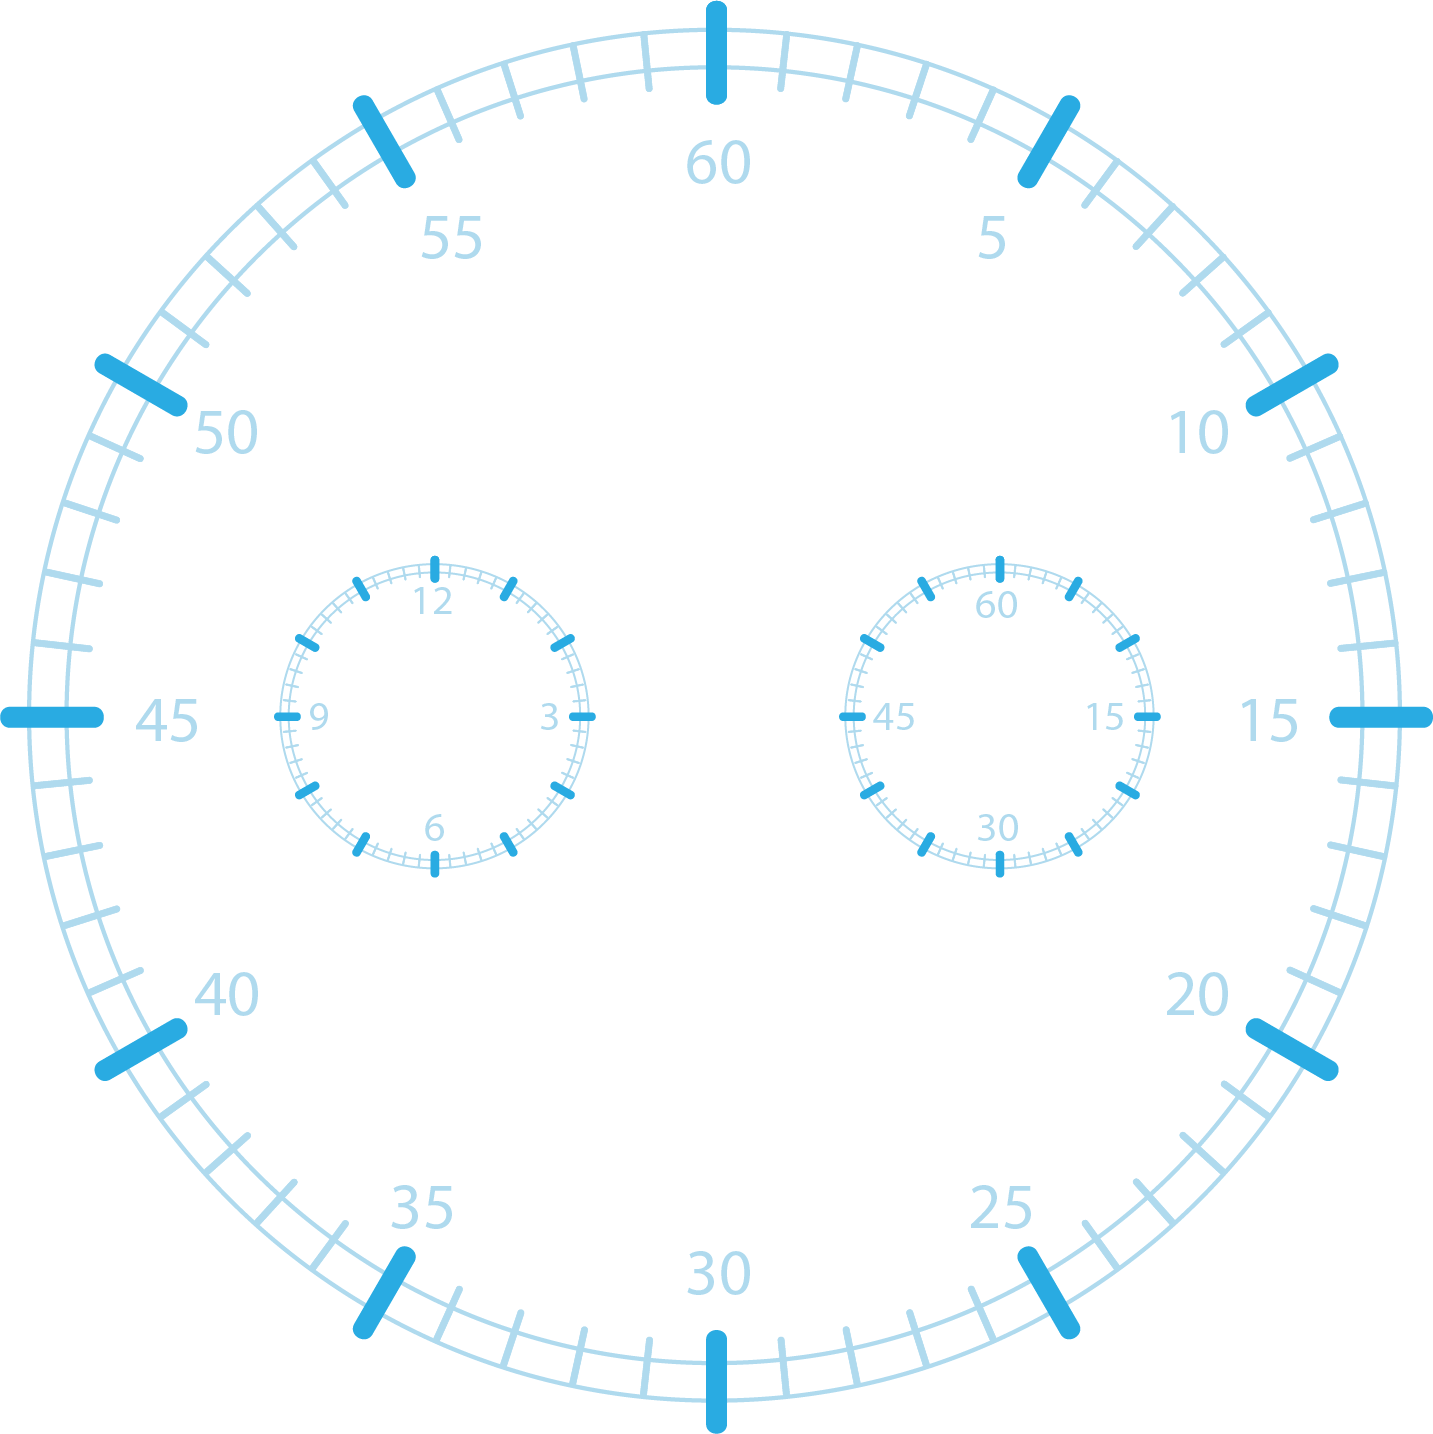
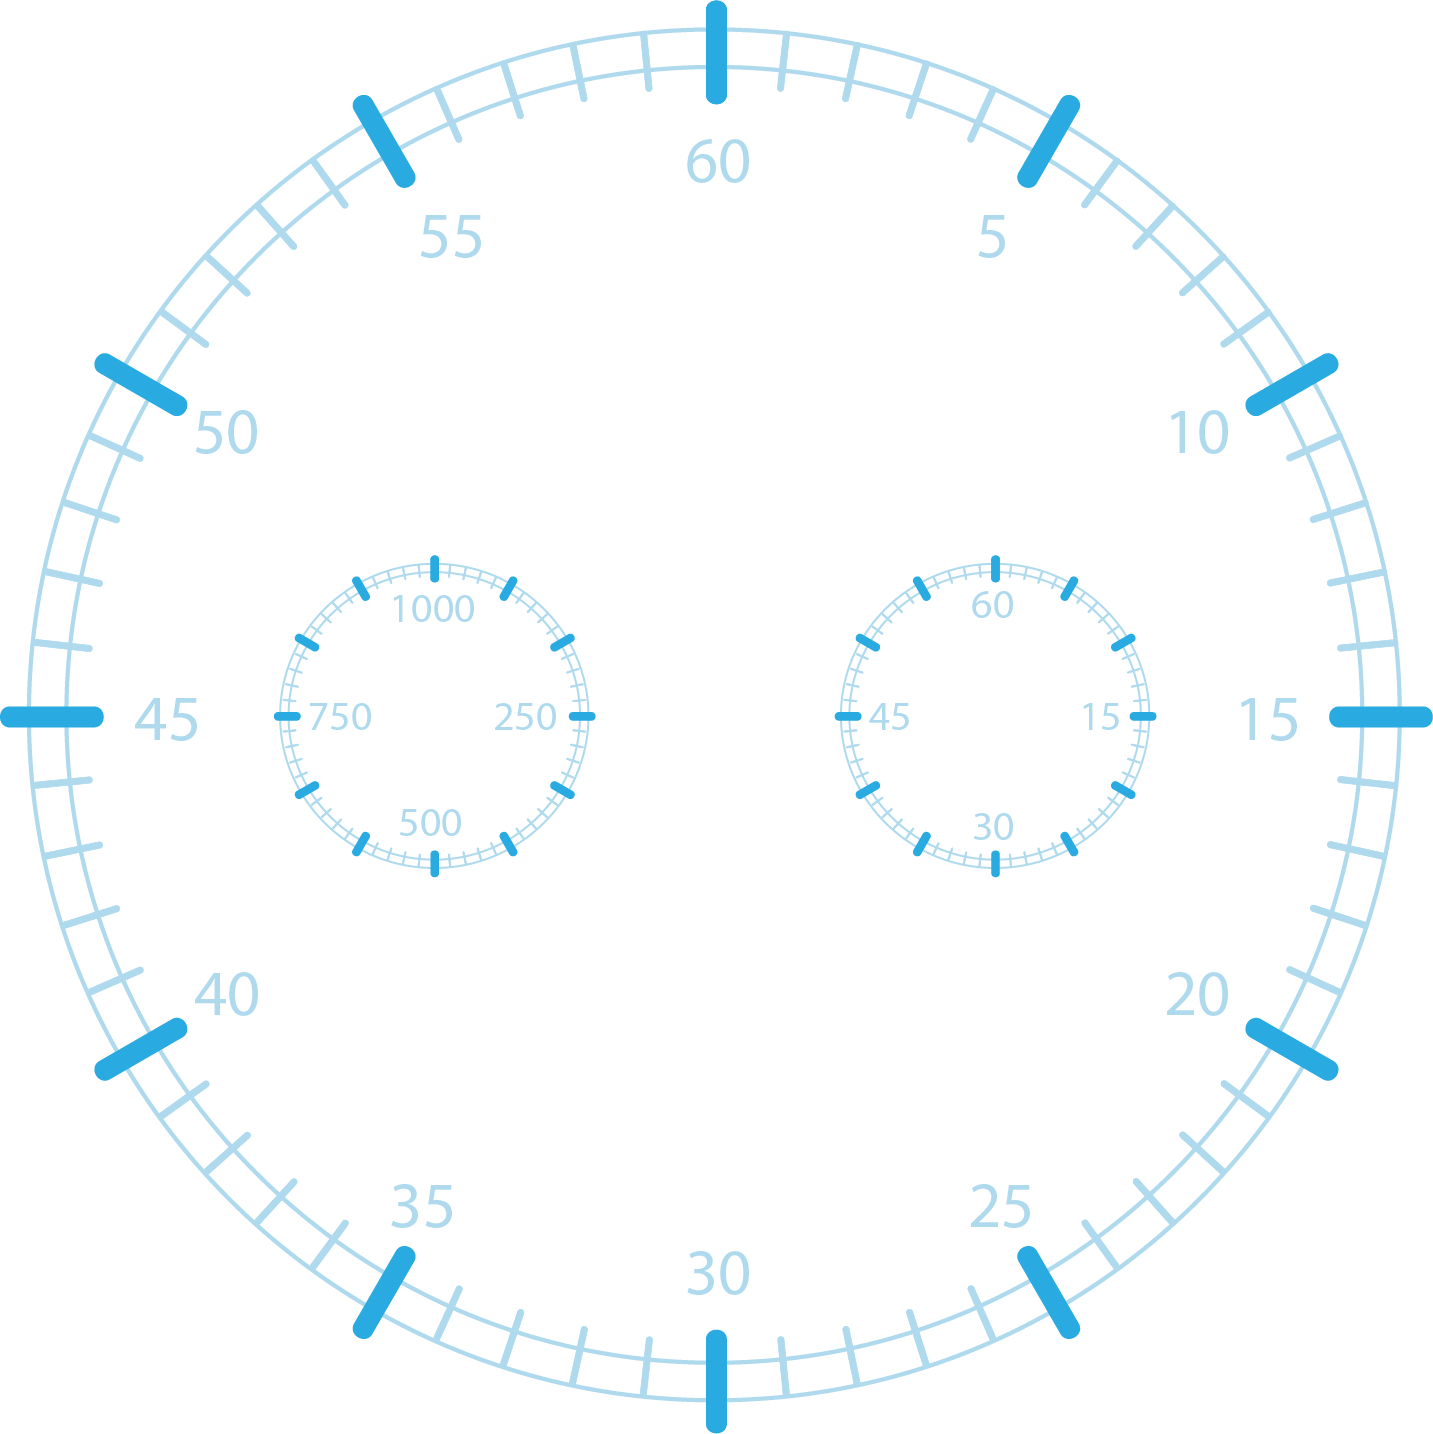
version3

diff --git a/style.css b/style.css
@@ -6,6 +6,10 @@ body{
     background-image: url(Images/2.jpg);
     background-size: cover;
 }
+.flex-container {
+  display: flex;
+  flex-direction: column;
+}
 .StopWatch{
     width: 350px;
     height: 350px;
@@ -15,72 +19,170 @@ body{
     background: #07344D;
     background-image: url(Images/StopWatch.png);
     background-size: cover;
-    /* border: 4px solid rgb(89, 89, 238); */
     border-radius: 50%;
-    /* box-shadow: 0px -15px 15px rgba(255, 255, 255, 0.05),
-                inset 0 -15px 15px rgba(255, 255, 255, 0.05); */
-                /* 0 15px 15px rgba(0, 0, 0, 0.05),
-                inset 0 15px 15px rgba(0, 0, 0, 0.05); */
 }
-/* .StopWatch:before{
-    content: '';
-    height: 15px;
-    width: 15px;
-    border-radius: 50%;
-    background: white;
-    z-index: 11;
+
+.strstp{
+    padding: 4px 12px !important;
+}
+.lap{
+    padding: 7px 6px !important;
+}
+.btn{
+    border-radius: 50% !important;
+    color: teal;
+}
+/* .fa-repeat{
+    padding: 14px 16px !important;
 } */
-.StopWatch .hours,
-.StopWatch .mins,
-.StopWatch .secs{
+.fa-play{
+    padding: 14px 17px !important;
+}
+.fa-repeat,.fa-pause{
+    padding: 14px 16px !important;
+}
+.fa,.btn{
+    margin: 38px !important;
+    font-size: 25px !important;
+}
+.buttons{
+    width: 350px;
+    height: 50px;
+    display: flex;
+    align-items: center;
+    justify-content: center;
+    margin-top: 50px;
+}
+.sem{
+    position: absolute;
+    width: 180px;
+    height: 220px;
+    display: flex;    
+    justify-content: center;
+    align-items: flex-end;
     position: absolute;
 }
-.hr,.mn{
+.semnum{
+    width: 60px;
+    height: 70px;
+}
+.semsign{
+    width: 0px;
+    height: 70px;
+    font-size: 40px;
+    color: #AFDAEE;
+    font-weight: lighter;
+    display: flex;
+    justify-content: center;
+    align-items: center;
+}
+.Dmsec,
+.Dmins,
+.Dsec{
+    position: absolute;
+    width: 180px;
+    height: 220px;
+    display: flex;
+}
+.dmsc,.dmn,.dsc{
+    text-align: center;
+    background: transparent;
+    border: none;
+    width: 60px;
+    height: 70px;
+    font-size: 40px;
+    color: #AFDAEE;
+    font-weight: lighter;
+    display: flex;
+    justify-content: center;
+    align-items: center;
+    position: absolute;
+}
+
+.Dmsec{
+    justify-content: right;
+    align-items: flex-end;
+    position: absolute;
+}
+.Dmins{
+    justify-content: left;
+    align-items: flex-end;
+    position: absolute;
+}
+.Dsec{
+    justify-content: center;
+    align-items: flex-end;
+    position: absolute;
+}
+
+.StopWatch .msec,
+.StopWatch .mins,
+.StopWatch .sec{
+    position: absolute;
+}
+.ms,.mn{
     width: 83px;
     height: 85px;
+    padding-top: 18px;
 }
-.StopWatch .hours,
+.StopWatch .msec,
 .StopWatch .mins{
     width: 220px;
     height: 220px;
     display: flex;
     align-items: center;
 }
-.StopWatch .hours{
+.StopWatch .msec{
     justify-content: left;
 }
 .StopWatch .mins{
     justify-content: right;
 }
-.StopWatch .secs, .sc{
+.StopWatch .sec, .sc{
     width: 300px;
     height: 300px;
 }
-.hr,.mn{
-    display: flex;
-    justify-content: center;
-    align-items: center;
-}
-.sc{
+.ms,.mn,.sc{
     display: flex;
     justify-content: center;
     position: absolute;
+}
+.ms::before,
+.mn::before{
+    content: '';
+    position: absolute;
+    width: 4px;
+    height: 30px;
+    background-image: url(Images/HrMnNeedle.png);
+    background-size: cover;
+    z-index: 10;
 }
 .sc::before{
     content: '';
     position: absolute;
     width: 18px;
     height: 180px;
-  /* width: 0; 
-  height: 0px; 
-  border-left: 5px solid #07344D;
-  border-right: 5px solid #07344D;
-  
-  border-bottom: 150px solid white; */
-    
-    /* background: white; */
     background-image: url(Images/SecNeedle.png);
     background-size: cover;
     z-index: 10;
-    border-radius: 6px 6px 0 0;
+
+    /* width: 0; 
+    height: 0px; 
+    border-left: 5px solid #07344D;
+    border-right: 5px solid #07344D;
+    
+    border-bottom: 150px solid white; */
+      
+      /* background: white; */
+}
+
+input::-webkit-outer-spin-button,
+input::-webkit-inner-spin-button {
+  -webkit-appearance: none;
+  margin: 0;
+}
+
+/* Firefox */
+input[type=number] {
+  -moz-appearance: textfield;
 }

diff --git a/app.js b/app.js
@@ -1,4 +1,101 @@
-// const deg = 6;
-// const sc = document.querySelector('#sc');
+const mn = document.getElementById('mn');
+const sc = document.getElementById('sc');
+const ms = document.getElementById('ms');
+const dmn = document.getElementById('dmn');
+const dsc = document.getElementById('dsc');
+const dms = document.getElementById('dmsc');
+const stspbtn = document.getElementById('strstp');
 
-// sc.style.transform = `rotateZ(${90}deg)`;
+var min = 0;
+var sec = 0;
+var msec = 0;
+var dsec = msec;
+var dmin = min;
+var dmsec = sec;
+var interval;
+
+dmn.value = dmin;
+dsc.value = dsec;
+dms.value = dmsec;
+mn.style.transform = `rotateZ(${min}deg)`;
+sc.style.transform = `rotateZ(${sec}deg)`;
+ms.style.transform = `rotateZ(${msec}deg)`;
+
+function StartStop(){
+    if((stspbtn.className).search("fa-play") != -1){
+        stspbtn.classList.remove("fa-play");
+        stspbtn.classList.add("fa-pause");
+        interval = setInterval(move,100);
+    }
+    else if((stspbtn.className).search("fa-pause") != -1){
+        stspbtn.classList.remove("fa-pause");
+        stspbtn.classList.add("fa-play");
+        clearInterval(interval);
+    }
+}
+function lap(){
+    
+}
+function reset(){
+    min = 0;
+    sec = 0;
+    msec = 0;
+    dsec = msec;
+    dmin = min;
+    dmsec = sec;
+    dmn.value = dmin;
+    dsc.value = dsec;
+    dms.value = dmsec;
+    mn.style.transform = `rotateZ(${min}deg)`;
+    sc.style.transform = `rotateZ(${sec}deg)`;
+    ms.style.transform = `rotateZ(${msec}deg)`;
+    clearInterval(interval);
+}
+function move(){
+
+    min+=0.01;
+    sec+=0.6;
+    msec+=36;
+    mn.style.transform = `rotateZ(${min}deg)`;
+    sc.style.transform = `rotateZ(${sec}deg)`;
+    ms.style.transform = `rotateZ(${msec}deg)`;
+
+    dmsec+=10;
+    if(dmsec >= 100){
+        dmsec = 00;
+        dsec++;
+        if(dsec >= 60){
+            dsec = 00;
+            dmin++;
+            if(dmin >= 60){
+                dmin = 00;
+            }
+            dmn.value = dmin;
+        }
+        dsc.value = dsec;
+    }
+    dms.value = dmsec;
+    // console.log(dsec);
+    if(min >= 360)min=0;
+    if(sec >= 360)sec=0;
+    if(msec >= 360)msec=0;
+
+
+
+    // console.log(i);
+    // if(i>=360){console.log("SecondDone");i=0;}
+    
+
+
+    // i++;
+    // if(i>=10){
+    //     console.log("SecondDone");
+    //     i=0;
+    // }
+        
+//     hr.style.transform = `rotateZ(${i}deg)`;
+//     mn.style.transform = `rotateZ(${i}deg)`;
+//     sc.style.transform = `rotateZ(${i}deg)`;
+//     i += 0.5;
+// }
+}

diff --git a/index.html b/index.html
@@ -26,21 +26,44 @@
 
 </head>
 <body>
+    <div class="flex-container">
+        <div class="StopWatch">
+            <div class="msec">
+                <div class="ms" id="ms"></div>
+            </div>
+            
+            <div class="mins">
+                <div class="mn" id="mn"></div>
+            </div>
+            
+            <div class="sec">
+                <div class="sc" id="sc"></div>
+            </div>
+            
+            <div class="Dmsec">
+                <input type="number" class="dmsc" id="dmsc" value="00" step=".01">
+            </div>
+            <div class="Dmins">
+                <input type="number" class="dmn" id="dmn" value="00" step=".01">
+            </div>
+            <div class="Dsec">
+                <input type="number" class="dsc" id="dsc" value="00" step=".01">
+            </div>
 
-    <div class="StopWatch">
-        <div class="hours">
-            <div class="hr" id="hr">hr</div>
+            <div class="sem">
+                <div class="semnum" id=""></div>
+                <div class="semsign" id="">:</div>
+                <div class="semnum" id=""></div>
+                <div class="semsign" id="">:</div>
+                <div class="semnum" id=""></div>
+            </div>
         </div>
-        
-        <div class="mins">
-            <div class="mn" id="mn"></div>
-        </div>
-        
-        <div class="secs">
-            <div class="sc" id="sc"></div>
+        <div class="buttons">
+            <button class="btn btn-basic fa fa-play strstp" id="strstp" onclick="StartStop()"></button>
+            <button class="btn btn-basic reset fa fa-repeat" id="reset" onclick="reset()"></button>
+            <button class="btn btn-basic lap" id="lap" onclick="lap()">LAP</button>
         </div>
     </div>
-
     <script src="app.js"></script>
 </body>
 </html>
